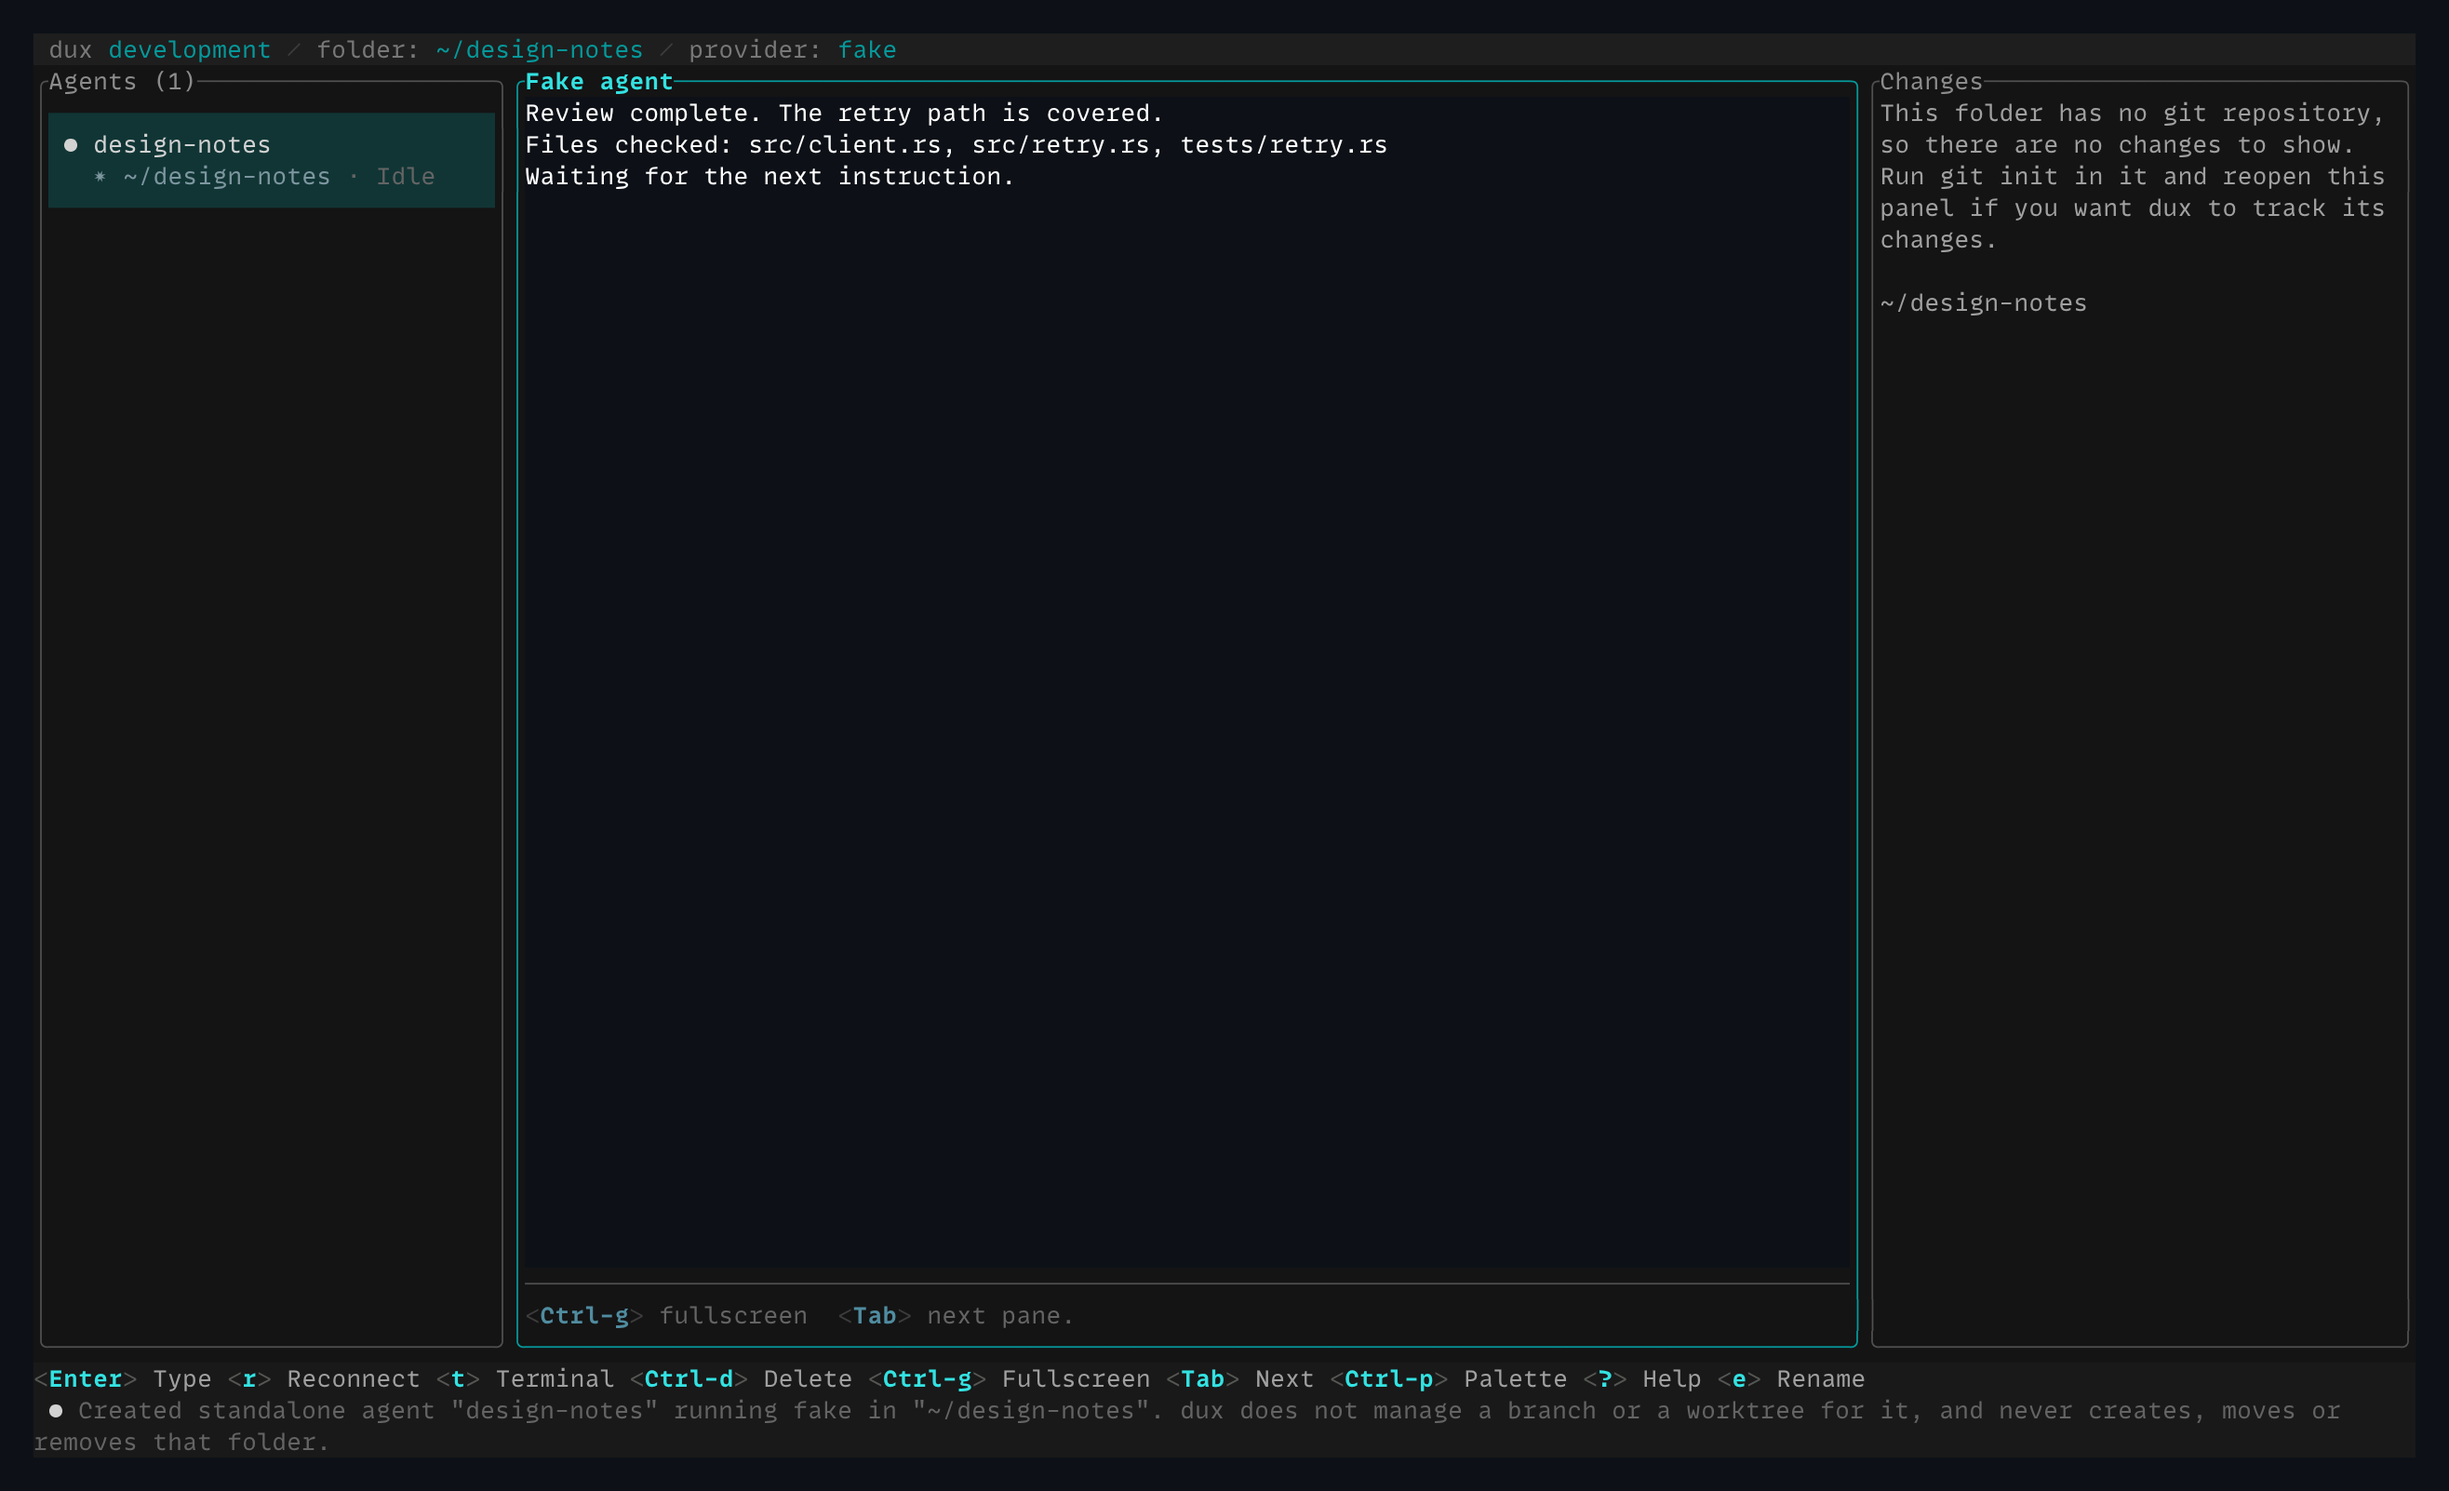
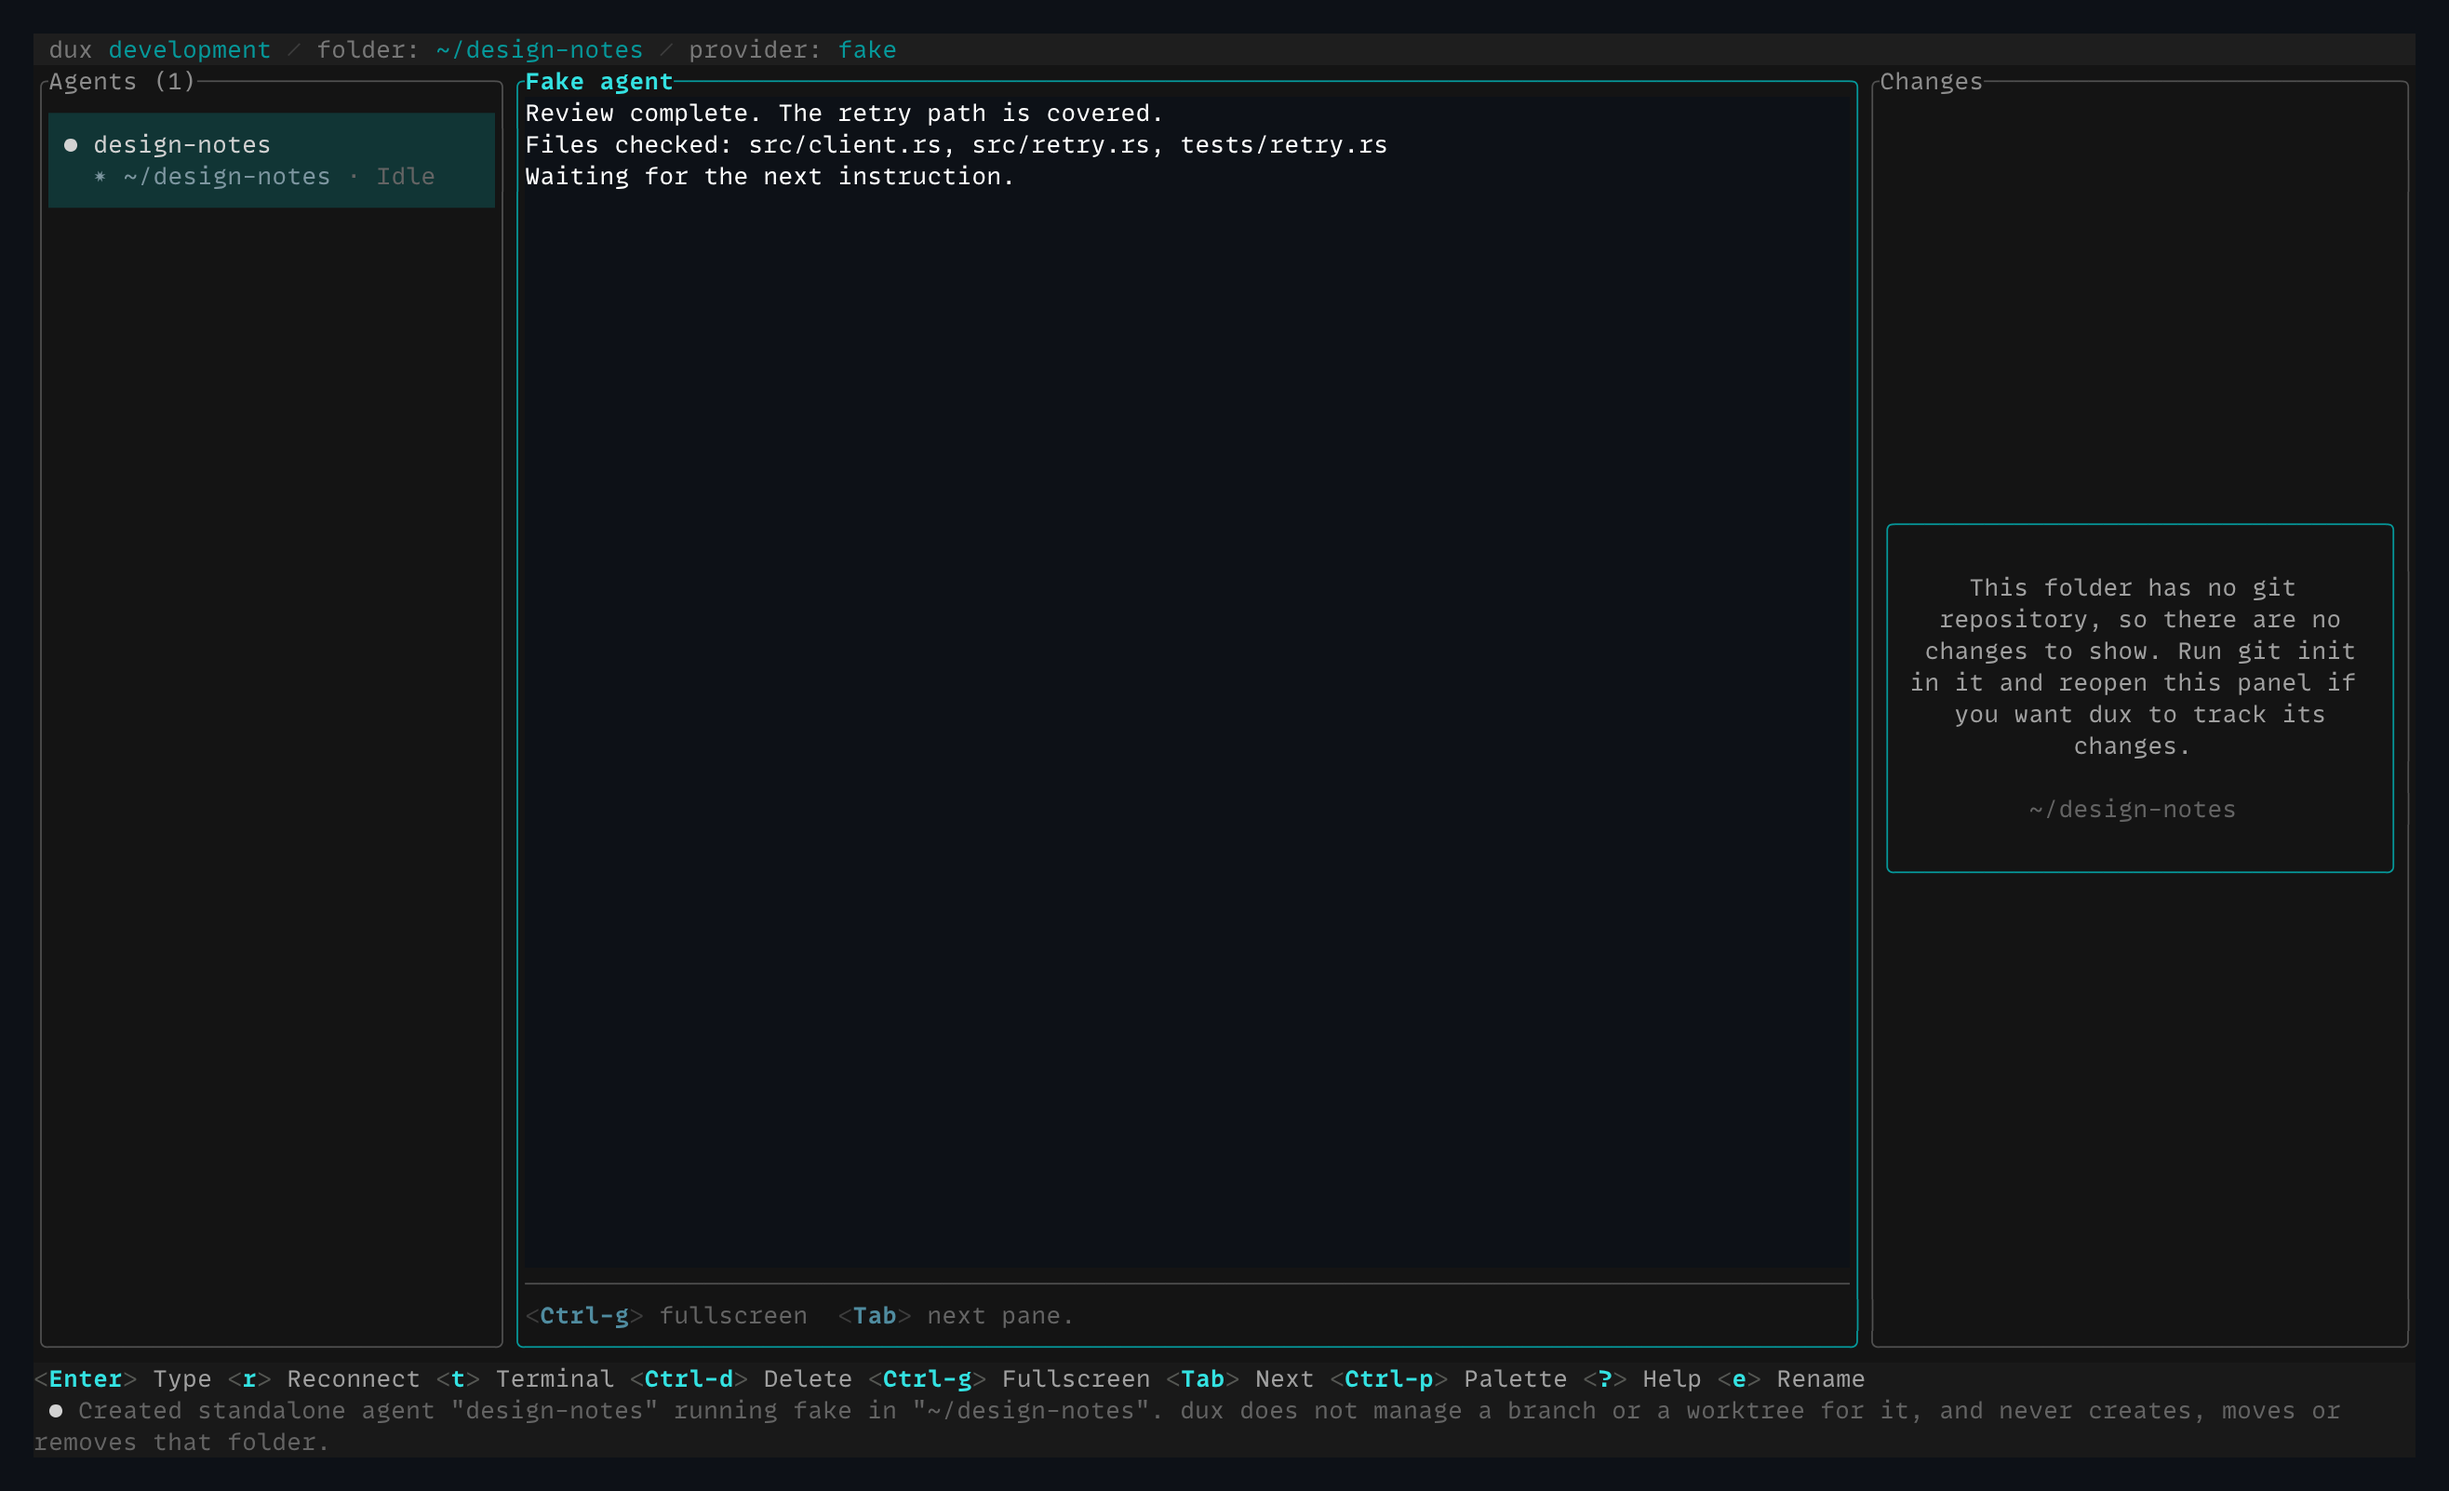
Reshoot the standalone agent screenshot for the changes panel card

Changed region(s): [[0.7789, 0.3745, 0.9658, 0.4994], [0.7789, 0.0624, 0.9658, 0.2185], [0.8412, 0.5306, 0.8723, 0.5618]]

diff --git a/tools/preview-env/README.md b/tools/preview-env/README.md
@@ -136,7 +136,11 @@ down the middle. Crops are flush to their cells and never exceed 1.5:1.
 Each run writes four artifacts beside the requested PNG: the image, styled ANSI
 cells, a plain-text grid, and JSON capture details. The example journey does not use
 the network. Their repositories, commit dates, project names, provider output,
-theme, and terminal size are controlled by the harness.
+theme, and terminal size are controlled by the harness. The script's default
+theme is `catppuccin-mocha`; the screenshots committed under
+`website/public/screens/` are taken with `--theme dux_dark`, so pass that when
+reshooting one or the new image lands on a different palette from its
+neighbours.
 
 `tui-journey.example.js` shows the journey contract. For a special capture,
 copy it to a throwaway `*.tmp.js` file and use the supplied `createAgent`,
